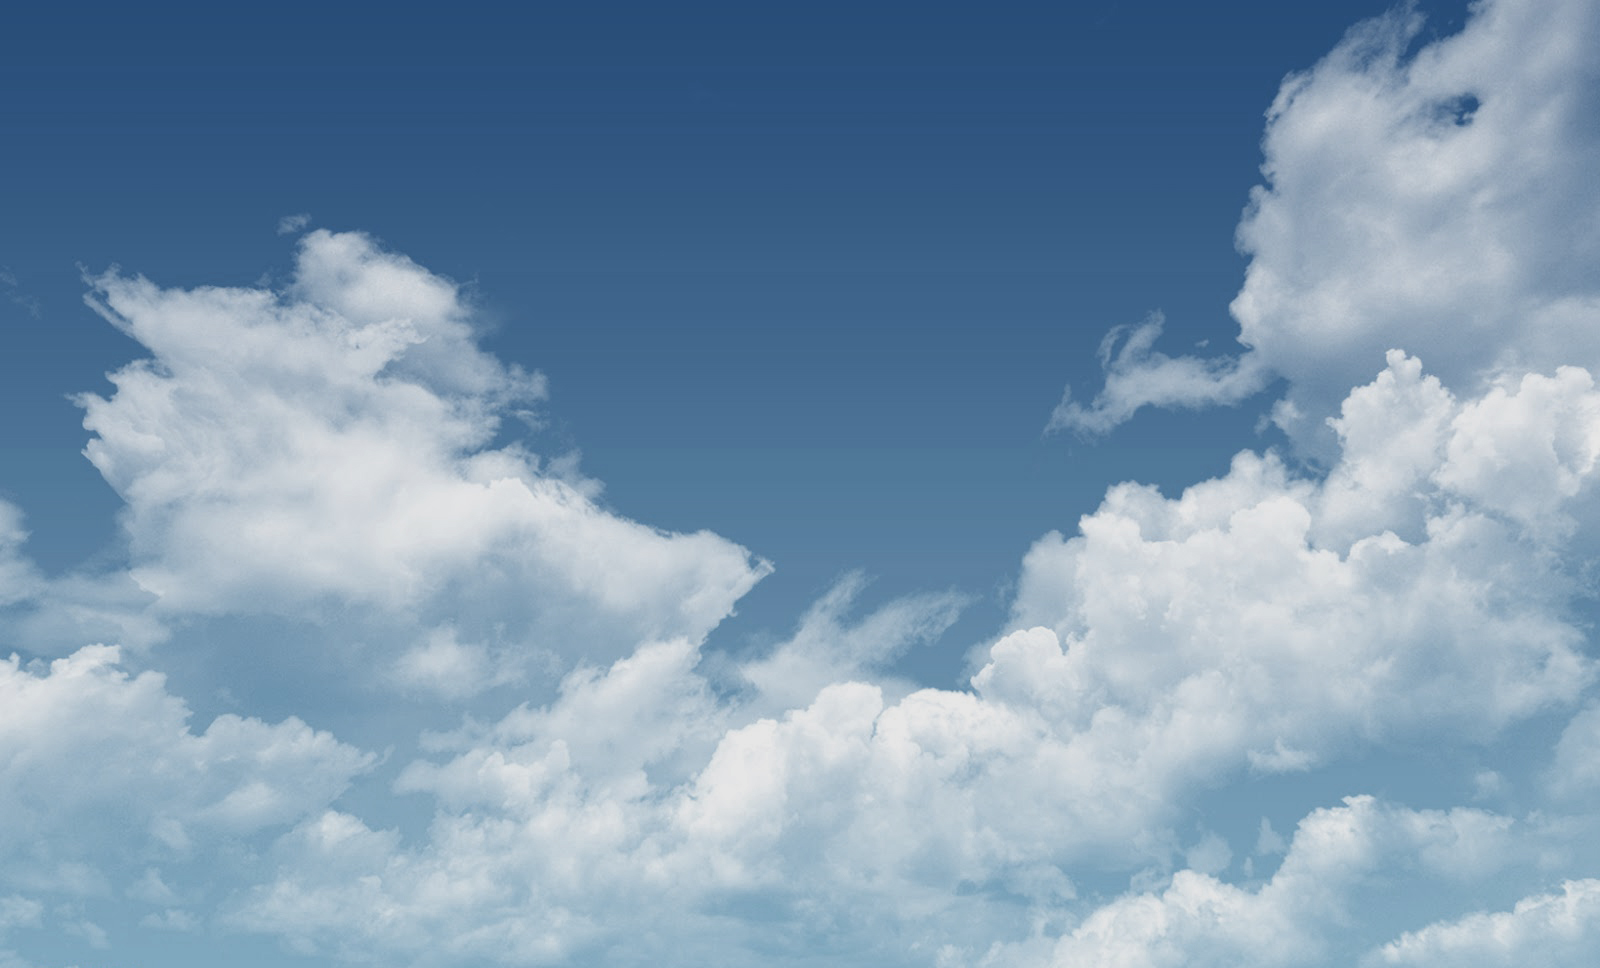
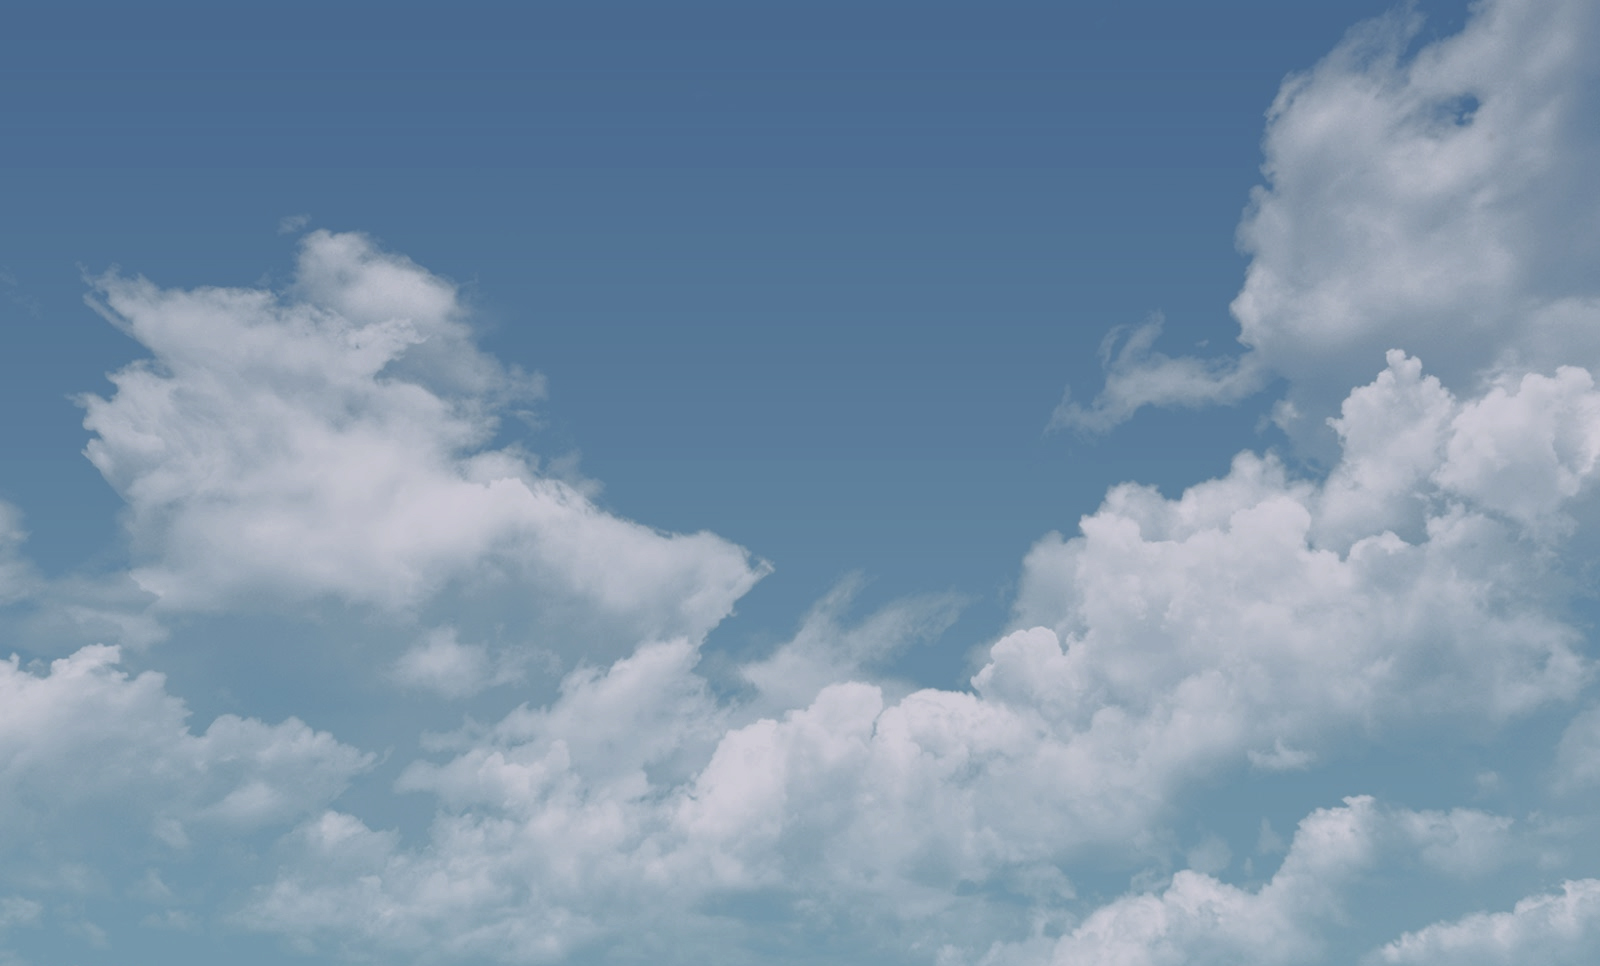
update

diff --git a/index.html b/index.html
@@ -34,36 +34,31 @@
     </section>
     <section class="daily-forecast-wrapper">
         <div class="daily-forecast">
-            <div onclick='alert("youClickedMe!")';>
-                <span class="arrow" >&#9658;</span>
+            <div>
                 <p id="day1"></p>
                 <p class="max-temp" id="max-temp1"></p>
                 <p class="min-temp" id="min-temp1"></p>
                 <img src="images/cloudy.png" class="forecast-icon" id="forecast-icon1" alt="Weather condition" />
             </div>
             <div>
-                <span class="arrow" >&#9658;</span>
                 <p id="day2"></p>
                 <p class="max-temp" id="max-temp2"></p>
                 <p class="min-temp" id="min-temp2"></p>
                 <img src="images/cloudy.png" class="forecast-icon" id="forecast-icon2" alt="Weather condition" />
             </div>
             <div>
-                <span class="arrow" >&#9658;</span>
                 <p id="day3"></p>
                 <p class="max-temp" id="max-temp3"></p>
                 <p class="min-temp" id="min-temp3"></p>
                 <img src="images/cloudy.png" class="forecast-icon" id="forecast-icon3" alt="Weather condition" />
             </div>
             <div>
-                <span class="arrow" >&#9658;</span>
                 <p id="day4"></p>
                 <p class="max-temp" id="max-temp4"></p>
                 <p class="min-temp" id="min-temp4"></p>
                 <img src="images/cloudy.png" class="forecast-icon" id="forecast-icon4" alt="Weather condition" />
             </div>
             <div>
-                <span class="arrow" >&#9658;</span>
                 <p id="day5"></p>
                 <p class="max-temp" id="max-temp5"></p>
                 <p class="min-temp" id="min-temp5"></p>
@@ -72,11 +67,6 @@
         </div>
     </section>
 
-    <!--
-        - En startvy som visar vädret i Stockholm aktuell dag. Följande data skall finnas med
-        Aktuell plats, temperatur, datum och tid
-        - Github skall användas för att lagra och versionshantera all kod
-    -->
     <script type="text/javascript" src="js/script.js"></script>
 
 </body>

diff --git a/js/script.js b/js/script.js
@@ -231,6 +231,7 @@ async function GetForecastData() {
         minTempParagraph.innerHTML = minTemp + "°C";
     }
 
+    //Funktion som hämtar väderikon beroende på hur vädret är under dagen
     function getForecastIcon(currentDay, iconImg) {
         let currentMonth = currentDay.getMonth() + 1;
         let currentDate = currentDay.getDate();
@@ -253,6 +254,7 @@ async function GetForecastData() {
 
             if (forecastList[i].dt_txt.slice(5, 7) == currentMonth && forecastList[i].dt_txt.slice(8, 10) == currentDate) {
 
+                //Om det regnar, snöar eller åskar under dagen visas detta
                 if (forecastApi.list[i].weather[0].icon === "09d" || forecastApi.list[i].weather[0].icon === "09n" || forecastApi.list[i].weather[0].icon === "10d" || forecastApi.list[i].weather[0].icon === "10n") {
                     icon.src = 'images/rain.png';
                     return false;
@@ -265,6 +267,7 @@ async function GetForecastData() {
                     icon.src = 'images/thunder.png';
                     return false;
                 }
+                //Annars beräknas antalet moln eller sol och då visas den som har mest
                 else {
 
                     if (forecastApi.list[i].weather[0].icon === "03d" || forecastApi.list[i].weather[0].icon === "03n" || forecastApi.list[i].weather[0].icon === "04d" || forecastApi.list[i].weather[0].icon === "04n") {

diff --git a/css/style.css b/css/style.css
@@ -11,7 +11,7 @@ html {
 }
 body {
     background-color: #567493;
-    background-image: url(../images/sky2.jpg);
+    background-image: url(../images/sky.jpg);
     background-size: cover;
     background-repeat: no-repeat;
     background-attachment: fixed;
@@ -24,7 +24,7 @@ body {
 }
 h1, h2, h3, h4, h5, h6 {
     margin: 0;
-}
+} 
 
 /* -----> Today's weather <----- */
 .weather-wrapper {
@@ -90,15 +90,6 @@ h1, h2, h3, h4, h5, h6 {
     align-items: center;
     position: relative;
 }
-.daily-forecast div:hover {
-    background-color: rgba(26, 105, 173, 0.87);
-    cursor: pointer;
-}
-.arrow {
-    position: absolute;
-    left: 15px;
-    margin: 0;
-}
 .daily-forecast p {
   display: inline-block;
   width: 80px;
@@ -154,9 +145,6 @@ h1, h2, h3, h4, h5, h6 {
         width: 19%;
         display: block;
         padding: 1em;
-    }
-    .arrow {
-      display: none;
     }
     .daily-forecast p {
       display: block;
